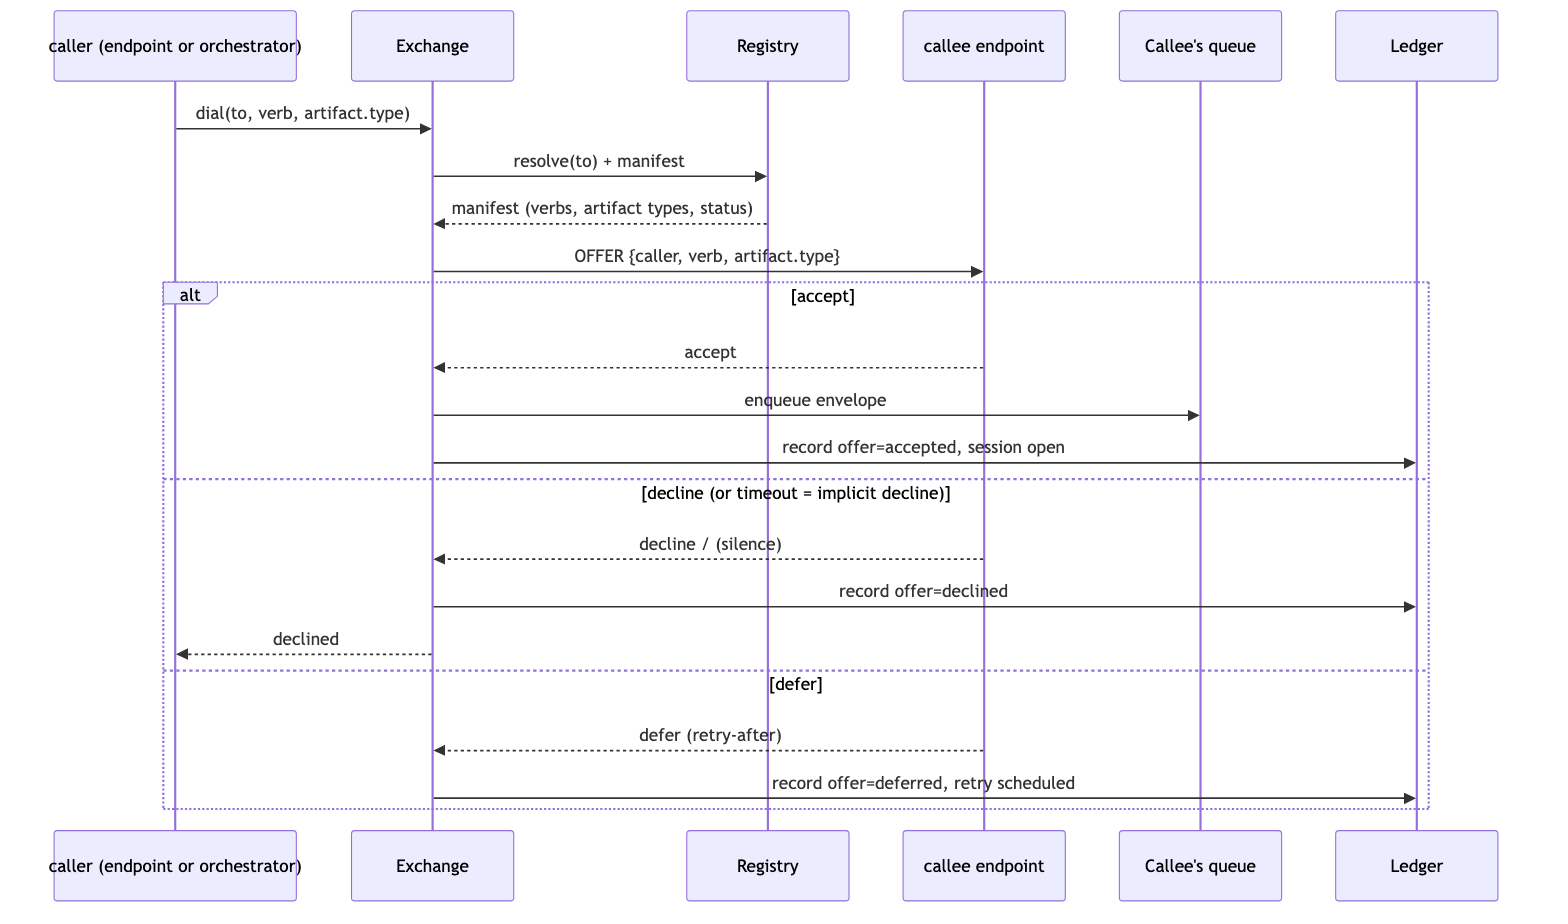
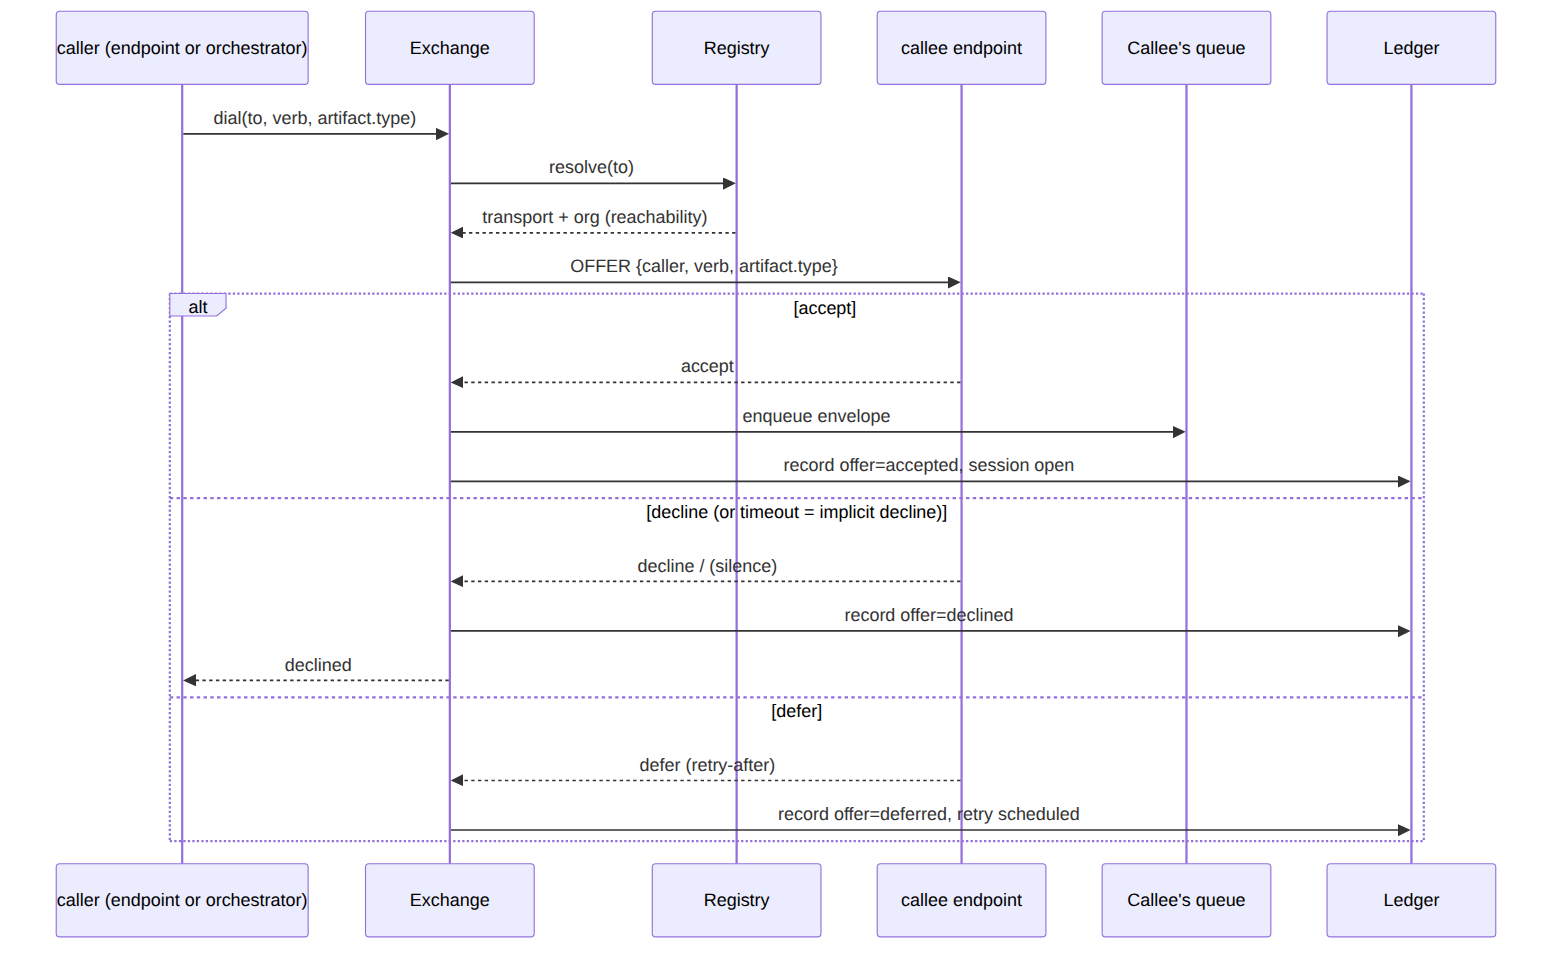
Reconcile architecture, envelope schema, and diagrams with the no-manifest model
The endpoint data model removed the capability manifest and made maintainer a
registry-controlled field; the ratified architecture still described a manifest
throughout, so the two docs disagreed. This aligns them.

architecture.md:
  - 3.2 Registry: owns endpoint records (identity, org, maintainer, transport),
    not manifests; status/depth composed at read time from the Queue service
  - 3.3/4/4.1/5.1: artifact.type is offer metadata the callee decides on, not
    something the switchboard matches; handshake resolves transport + org
  - 5.4/8: saturated is observed status, not a manifest/self-reported field
  - 6: maintainer is an IdP principal (registry-controlled); reachability is
    org membership; record keyed by opaque id, not the address
  - 9.2: hot-path resolve is address -> transport + reachability, no manifest read
  - Decision log entry 12 records the change and flags the Exchange consequence
    (handshake no longer performs manifest matching)

envelope-schema.md: artifact.type is metadata, not manifest-matched (2 spots + example)
diagrams: handshake and topology no longer show manifest reads
README + registry-data-model.md: divergence note becomes a reconciliation note

Claude-Session: https://claude.ai/code/session_01Kp1fDRiuHjXXTLq4ze1wwh

diff --git a/docs/architecture.md b/docs/architecture.md
@@ -49,15 +49,15 @@ There are exactly **two delivery paths** into an endpoint's queue: the Exchange 
 
 ### 3.2 Registry
 
-**Owns:** the flat namespace of endpoints and their capability manifests.
+**Owns:** the flat namespace of endpoints — one record per endpoint (see [registry-data-model.md](registry-data-model.md)).
 
 - Humans and agents are **separate, co-equal endpoints**: `varsha@acme` (human), `review-agent@varsha.acme` (her agent). Agents can be personal or team-owned infrastructure (`payments-review@acme`).
-- Each endpoint publishes a **capability manifest**: accepted verbs, accepted artifact types, current queue depth, maintainer, status (online/away/saturated), and for agents, replica/scale info.
-- The registry is the **discovery surface**: callers browse/search it and choose whom to dial (no personal routing layer).
+- Each endpoint record carries **identity and reachability, not capabilities**: address, `org_id`, kind, a human-readable `display_name` and `description`, a registry-controlled `maintainer` (an IdP principal — user or group), and a typed `transport` (where the endpoint lives and how to reach it — ARN, webhook URL, Slack id). There is **no capability manifest**: the switchboard does not store, or match against, an endpoint's accepted verbs or artifact types.
+- The registry is the **discovery surface**: callers browse/search by description and choose whom to dial (no personal routing layer). Live status and queue depth are **composed at read time** from the Queue service, not stored here.
 
-**Does not:** route, decide reachability, or enforce who may dial whom. Visibility + the endpoint's right to decline is the access model.
+**Does not:** route, enforce fine-grained call graphs, or record what an endpoint can do. Reachability is coarse **org membership** (§6); the endpoint's right to decline at handshake does the rest.
 
-**Interfaces:** register/update endpoint, publish manifest, resolve address, query directory. Manifest reads by the Exchange are on the hot path of every offer.
+**Interfaces:** register/update endpoint, resolve address (→ transport + reachability), query directory. The resolve is on the hot path of every offer.
 
 ### 3.3 Exchange
 
@@ -117,7 +117,7 @@ The product brief settles four fields: **artifact reference, thread ID, provenan
 |---|---|---|
 | Verb | Exactly one of the universal set (§4.1) | Brief |
 | Thread ID | Conversation identity; stable across revise loops | Brief |
-| Artifact reference + type | Pointer to the work item; type is matched against the callee's manifest at handshake. Bodies live outside the switchboard | Brief |
+| Artifact reference + type | Pointer to the work item; `type` is metadata the callee uses to decide at handshake — the switchboard neither stores a manifest nor matches on it. Bodies live outside the switchboard | Brief |
 | Provenance (workflow run, on-behalf-of) | Which workflow run (or `ad-hoc`) produced it; the human/team an agent acts for | Brief |
 | Envelope ID | Unique, switchboard-assigned identifier per message; dedupe and ledger reference | Proposed |
 | From / To | Sender and recipient endpoint addresses | Proposed |
@@ -145,14 +145,14 @@ One verb per envelope, from a small universal set. Workflow joins key off verb e
 **Invariants:**
 
 - The verb set is **closed in v0**. Extending it is a spec change, not a configuration option — every component and every workflow join depends on its stability.
-- The switchboard never interprets artifact content; `artifact.type` exists only for manifest matching at handshake time.
+- The switchboard never interprets artifact content; `artifact.type` is offer metadata the callee uses to decide, not something the switchboard matches or enforces.
 - `thread_id` is the unit of conversation (a PR review across five turns is one thread); `session_id` is the unit of handshaken delivery. Ad-hoc and first-contact calls open a session per call; a standing offer opens one long-lived session per workflow–endpoint pair at workflow creation, and all direct-enqueued envelopes for that pair travel on it. A thread may span multiple sessions (e.g. an escalation opens a new session to the human).
 
 ## 5. End-to-end data flow
 
 ### 5.1 The handshake (session establishment)
 
-![Handshake sequence: caller dials, Exchange resolves the callee's manifest via the Registry, sends the offer, and the callee's accept, decline, or defer is recorded to the Ledger](diagrams/handshake.png)
+![Handshake sequence: caller dials, Exchange resolves the callee's transport and org via the Registry, sends the offer, and the callee's accept, decline, or defer is recorded to the Ledger](diagrams/handshake.png)
 
 <sub>Diagram source: [diagrams/handshake.mmd](diagrams/handshake.mmd)</sub>
 
@@ -182,22 +182,22 @@ Any endpoint can dial any other directly. An ad-hoc call is the degenerate workf
 When an agent endpoint's queue saturates (e.g. `review-agent@mohit.acme` at replicas 4/4, depth 31):
 
 1. New offers to it get `defer` (endpoint decision) — the Exchange schedules retries and the ledger shows the defer trail.
-2. The registry manifest reflects `saturated`; callers and the Orchestrator's standing-offer checks see it.
+2. The endpoint's **observed status** reads `saturated` (composed from Queue-service depth); callers and the Orchestrator's standing-offer checks see it.
 3. The owning human intervenes **only if needed**: bump an item's priority, pause the queue, or take an item over ("I'll take this call"), which reassigns delivery to their own inbox. All three are ledger-recorded interventions.
 
 ## 6. Cross-cutting: identity and endpoint model
 
-- **Address = identity.** Flat, org-scoped namespace: `name@org` for humans and team agents, `agent-name@owner.org` for personal agents. Addresses are stable; capability manifests behind them change freely.
-- **Humans and agents are co-equal** endpoint kinds with the same protocol surface. The differences are presentation (inbox vs. pull) and manifest shape (humans implicitly accept `inbox` delivery; agents declare verbs/artifact types/replicas).
-- **Ownership and accountability:** every agent endpoint has a `maintainer` (human or team) in its manifest, and every envelope an agent sends can carry `on_behalf_of` provenance. "Who did this and for whom" is always answerable from ledger + registry alone.
+- **Address = identity.** Flat, org-scoped namespace: `name@org` for humans and team agents, `agent-name@owner.org` for personal agents. Addresses are stable; the endpoint record behind them (transport, description, maintainer) changes freely. Internally the record is keyed by an opaque system-minted `id`, not the address (see [registry-data-model.md](registry-data-model.md)).
+- **Humans and agents are co-equal** endpoint kinds with the same protocol surface. The only difference is presentation (inbox vs. pull); what each accepts is decided at handshake by the endpoint's own logic, invisible to the switchboard.
+- **Ownership and accountability:** every agent endpoint has a `maintainer` — a registry-controlled **IdP principal** (user or group), not self-declared — and every envelope an agent sends can carry `on_behalf_of` provenance. "Who did this and for whom" is always answerable from ledger + registry alone.
 - **Authentication:** each endpoint authenticates to the switchboard with its own credential (per-endpoint token/key issued at registration; mTLS as hardening later). Endpoints never authenticate to each other — the switchboard is the trust broker.
-- **Authorization model is deliberately thin:** directory visibility + handshake right-to-decline, per the settled principles. There are no switchboard-enforced call graphs or approval gates in v0.
+- **Authorization model is deliberately thin:** reachability is coarse **org membership** — any endpoint may dial any other in the same org — plus the handshake right-to-decline. There are no finer switchboard-enforced call graphs or approval gates in v0; cross-org is out of scope (§11), and `org_id` is the only seam for it.
 
 ## 7. Cross-cutting: security posture
 
 | Concern | Position |
 |---|---|
-| Trust boundary | Endpoints are untrusted edges; the switchboard substrate is the trusted core. Everything an endpoint asserts (manifest, acceptance, envelopes) is recorded as *its* assertion, attributable via its credential. |
+| Trust boundary | Endpoints are untrusted edges; the switchboard substrate is the trusted core. Everything an endpoint asserts (its self-description, acceptance, envelopes) is recorded as *its* assertion, attributable via its credential. |
 | Artifact custody | The switchboard carries **references + digests**, not bodies. Bodies live in the org's existing systems of record (GitHub for diffs, doc stores for documents), which the single-org pilot's endpoints already share access to; for freshly generated artifacts the reference deployment designates **one org-shared object-store bucket** — a deployment convention, not a switchboard component — so agents don't each bring their own storage. Artifact stores enforce their own access control; a leaked ledger never leaks artifact content. Digest lets recipients verify what they fetched is what was offered. |
 | Tenancy | v0 is single-org. All addresses live in one org namespace; cross-org federation is deferred (§11) and must not be accidentally half-built. |
 | Auditability | Append-only ledger, complete by construction (no side channels). Ledger writes are part of the delivery path, not best-effort telemetry. Entries are never edited; an org-configurable retention window may expire old entries per policy. The ledger contains **message bodies** (the conversation) but never **artifact bodies** (the work); role-gated queries and the retention window bound that exposure. |
@@ -210,7 +210,7 @@ Correlation is built into the contract: `thread_id` (conversation), `session_id`
 
 - **Metrics (the console's lamps are views over these):** handshake latency and accept/decline/defer rates per endpoint; queue depth, age of oldest item, drain rate; workflow run counts by state; escalation rate per agent; autoscale replica utilization vs. budget cap.
 - **Ledger vs. telemetry:** the ledger is the durable record of *what happened between parties*; metrics/logs/traces are operational exhaust of *how the substrate performed*. The ledger is never sampled; telemetry can be.
-- **Health of the edges:** endpoint status (online/away/saturated) in the registry is self-reported plus liveness-checked (missed handshakes degrade status). Saturation is a first-class observable state, since the human-intervention model depends on noticing it.
+- **Health of the edges:** endpoint status (online/away/saturated) is **observed, not stored on the endpoint** — composed from Queue-service depth plus liveness signals (missed handshakes, heartbeats). Saturation is a first-class observable state, since the human-intervention model depends on noticing it.
 
 ## 9. Non-functional requirements (v0)
 
@@ -234,7 +234,7 @@ Human-in-the-loop turnarounds are minutes-to-days, so the system optimizes for d
 
 | Path | Budget |
 |---|---|
-| Registry resolve + manifest read (hot path of every offer) | ≤ 100 ms |
+| Registry resolve (address → transport + reachability; hot path of every offer) | ≤ 100 ms |
 | Handshake transit (offer out + reply in, excluding callee decision time) | ≤ 400 ms |
 | Enqueue: verb emission → visible in callee's queue (ledger write + SQS send) | ≤ 1 s |
 | Handshake timeout (silence = implicit decline) | 60 s default, per-offer configurable |
@@ -315,3 +315,4 @@ Ratified in the stakeholder walkthrough on **2026-07-12**, with amendments from 
 | 9 | NFR parameters | **Ratified 2026-07-15** — latency budgets relaxed to 100 ms / 400 ms / 1 s / 4 s p95; handshake timeout 60 s; durability RPO ≤ 5 min, RTO ≤ 4 h, auto-re-drive past SQS's 14-day cap; workflow wait caps are **per-state, author-declared, defaulting to 24 h** (initially a hard 24 h cap; softened same day to the configurable default so days-long workflows declare their needs up front — reconciles with the brief's "can wait days"); ledger retention 1 year default; availability 99.5% monthly, no cross-region DR; **cost ceiling $50/month** (four services co-locate on shared compute in the pilot). Amended 2026-07-16 in PR #2 review: fairness via **per-endpoint session limits** (default 25) and **per-workflow-definition run limits** (default 10), replacing the briefly proposed 20%-of-global guardrail. |
 | 10 | Envelope schema specifics | **Ratified 2026-07-15** — IDs are switchboard-minted prefixed **UUIDv4s** (ordering via `created_at`); priority **0–9, lower = urgent, default 4, 0 reserved for human take-over**; **16 KB** envelope cap; **strict fields** (unknown fields rejected, no extension bag); **set-once immutability** (corrections are new envelopes); **sha256-only** digests. See [envelope-schema.md](envelope-schema.md). |
 | 11 | Message body vs artifact body | **Ratified 2026-07-16 (PR #2 review)** — envelopes gain an optional inline **`body` ≤ 12 KB** for conversational text (including chat-style exchanges), delivered via queues and stored in the ledger as part of the record. Artifact bodies remain by-reference only. Rationale: the conversation is exactly what the ledger must capture — forcing prose into artifact stores (or Slack) would recreate side channels. Sub-artifact references from bodies use **URI fragments** on the canonical artifact ref (`#L40-L60`); per-type conventions land in the v0 spec; interpretation is client-side only. |
+| 12 | Registry model & no manifest | **Changed 2026-08-03** — the Registry stores **one endpoint record** (opaque `id`; `address`; `org_id`; `kind`; `display_name`/`description`; an IdP-principal `maintainer`; typed `transport`; lifecycle with reversible suspension) and **no capability manifest**. The switchboard no longer stores or matches accepted verbs/artifact types — acceptance is entirely edge-side at handshake, reinforcing "intelligence at the edges"; `artifact.type` is offer metadata the callee decides on, not a switchboard gate. Status and queue depth are **observed** (composed from the Queue service), not published fields; `maintainer` moves from manifest content to a registry-controlled field (self-declared accountability is worthless). Reachability is coarse **org membership**. Consequence flagged for the **Exchange** story: the handshake no longer performs manifest matching. See [registry-data-model.md](registry-data-model.md). |

diff --git a/docs/envelope-schema.md b/docs/envelope-schema.md
@@ -18,7 +18,7 @@ JSON, schema-versioned. Every payload that moves through the switchboard is exac
   "from": "coding-agent@you.acme",
   "to": "review-agent@varsha.acme",
   "artifact": {
-    "type": "diff",                                   // matched against callee manifest at handshake
+    "type": "diff",                                   // metadata the callee uses to decide at handshake
     "ref": "artifact://acme/pr-4821",                 // reference — bodies live outside the switchboard
     "digest": "sha256:9f86d081884c7d659a2feaa0c55ad015a3bf4f1b2b0b822cd15d6c15b0f00a08"
   },
@@ -88,8 +88,8 @@ JSON, schema-versioned. Every payload that moves through the switchboard is exac
 
 - **Closed verb set.** The seven-verb enum is closed in v0 (decision log #2); workflow joins key off verb emissions.
 - **IDs** are switchboard-assigned UUIDv4s with type prefixes (`env_`, `thr_`, `ses_`). Endpoints never mint them. Chronological ordering comes from `created_at`, not the ID.
-- **`body`** (optional) — conversational text accompanying the verb, ≤ 12 KB: review remarks, escalation reasons ("needs human judgment on the rollback path"), rejection rationale, or plain chat turns. This is the **message about the work**; the work itself always stays by-reference in `artifact`. Bodies are delivered through the queue and stored in the ledger as part of the interaction record — conversation is switchboard custody, work products are not (ratified 2026-07-16, PR #2 review). Chat-style exchanges are simply sequences of small-bodied envelopes on one `thread_id` — the per-message cap never binds there; message *volume* is governed by the scale targets (architecture §9.1). Anything that doesn't fit in 12 KB is a work product and belongs in an artifact. The body may freely *mention* artifact URIs (or anything else) as plain text — clients like the Console may linkify them — but the switchboard never parses body content (common carrier), so inline mentions carry **no protocol semantics**: no manifest matching, no digest verification, no ledger indexing. The structured `artifact` field is the one canonical, verified reference per envelope. To point at a specific part of that artifact, the body uses **URI fragments** on the canonical ref — `artifact://acme/pr-4821#L40-L60` for diff lines, `#section-name` for docs (ratified 2026-07-16). A fragment doesn't change which resource is referenced, so the artifact digest still covers exactly what the fragment points into; fragment conventions are defined per artifact type in the v0 spec, and interpretation is entirely client/endpoint-side.
-- **`artifact`** — the work item this envelope is about. `type` (e.g. `diff`, `design-doc`) is matched against the callee's capability manifest at handshake, so an endpoint is never offered work it can't handle. `ref` is a URI pointing to where the body actually lives — the org's existing systems of record (GitHub for diffs, doc stores for documents), or the org-shared artifact bucket the reference deployment designates for freshly generated content; the switchboard never stores or fetches it, and access control stays with the store. `digest` is the sha256 fingerprint of that content: the recipient hashes what it fetches from `ref` and compares, proving nobody swapped the artifact after the offer.
+- **`body`** (optional) — conversational text accompanying the verb, ≤ 12 KB: review remarks, escalation reasons ("needs human judgment on the rollback path"), rejection rationale, or plain chat turns. This is the **message about the work**; the work itself always stays by-reference in `artifact`. Bodies are delivered through the queue and stored in the ledger as part of the interaction record — conversation is switchboard custody, work products are not (ratified 2026-07-16, PR #2 review). Chat-style exchanges are simply sequences of small-bodied envelopes on one `thread_id` — the per-message cap never binds there; message *volume* is governed by the scale targets (architecture §9.1). Anything that doesn't fit in 12 KB is a work product and belongs in an artifact. The body may freely *mention* artifact URIs (or anything else) as plain text — clients like the Console may linkify them — but the switchboard never parses body content (common carrier), so inline mentions carry **no protocol semantics**: no capability matching, no digest verification, no ledger indexing. The structured `artifact` field is the one canonical, verified reference per envelope. To point at a specific part of that artifact, the body uses **URI fragments** on the canonical ref — `artifact://acme/pr-4821#L40-L60` for diff lines, `#section-name` for docs (ratified 2026-07-16). A fragment doesn't change which resource is referenced, so the artifact digest still covers exactly what the fragment points into; fragment conventions are defined per artifact type in the v0 spec, and interpretation is entirely client/endpoint-side.
+- **`artifact`** — the work item this envelope is about. `type` (e.g. `diff`, `design-doc`) is offer metadata the callee uses to decide at handshake — the switchboard neither stores a manifest nor matches on it (acceptance is edge-side). `ref` is a URI pointing to where the body actually lives — the org's existing systems of record (GitHub for diffs, doc stores for documents), or the org-shared artifact bucket the reference deployment designates for freshly generated content; the switchboard never stores or fetches it, and access control stays with the store. `digest` is the sha256 fingerprint of that content: the recipient hashes what it fetches from `ref` and compares, proving nobody swapped the artifact after the offer.
 - **`provenance`** — where the envelope came from. `workflow_run` names the orchestrator run that produced it (`wf:<workflow>#<run>`), or the literal `ad-hoc` for direct dials. `on_behalf_of` is the human or team the sending agent acts for — this is what makes "who did this, for whom" answerable from the ledger alone. `in_reply_to` points at the earlier envelope on the thread this one answers, giving exact conversation ordering.
 - **Timestamps are UTC.** `created_at` is RFC 3339 with a mandatory `Z` suffix — the schema rejects local-time offsets. The switchboard assigns it at acceptance; endpoints never set it.
 - **`priority`** — 0 (highest, reserved for owner take-over) through 9; default 4. Queues sort by priority, then age.

diff --git a/docs/registry-data-model.md b/docs/registry-data-model.md
@@ -47,14 +47,14 @@ An endpoint is one row. There is no separate manifest, no capability projection,
 
 7. **Live status is not stored.** Online/away/saturated and queue depth are the Queue service's facts (queues are switchboard-owned; the Registry never calls endpoints). The console composes them at read time.
 
-## Divergence from the ratified architecture
+## Reconciled with the architecture
 
-This model departs from `architecture.md` (ratified) in two places, deliberately and by decision — flagged, not smuggled:
+This model changed two things the earlier ratified `architecture.md` asserted; the architecture doc has been updated to match (decision-log entry 12, 2026-08-03):
 
-- The architecture has every endpoint **publish a capability manifest** (§3.2, §4); this model has **no manifest** (reason 4 above).
-- The architecture lists **maintainer as manifest content** (§3.2); here it is a registry-controlled column (reason 2).
+- The manifest is gone — the switchboard no longer stores or matches accepted verbs/artifact types; acceptance is edge-side at handshake, and `artifact.type` is metadata the callee decides on.
+- Maintainer moved from manifest content to a registry-controlled field.
 
-Reconciling this — updating `architecture.md`, or ratifying the departure — is a stakeholder decision, not one this doc makes on its own.
+One consequence lands on a sibling story: the **Exchange** handshake no longer performs manifest matching — flagged in the architecture decision log for the Exchange design to pick up.
 
 ## Deliberately not here
 

diff --git a/README.md b/README.md
@@ -8,7 +8,7 @@ The open communication exchange for organizations where AI agents are first-clas
 
 Five components, one substrate — see the [architecture document](docs/architecture.md):
 
-1. **Registry** — flat namespace of human and agent endpoints, each publishing a capability manifest. Data model: [registry-data-model.md](docs/registry-data-model.md).
+1. **Registry** — flat namespace of human and agent endpoints; each is one record (identity, org, maintainer, transport). Data model: [registry-data-model.md](docs/registry-data-model.md).
 2. **Exchange** — session establishment and delivery via an offer/accept handshake.
 3. **Queues** — durable, per-endpoint, switchboard-owned; agents pull, humans see an inbox.
 4. **Orchestrator** — declarative workflows over endpoints; states are conversations and can wait days.
